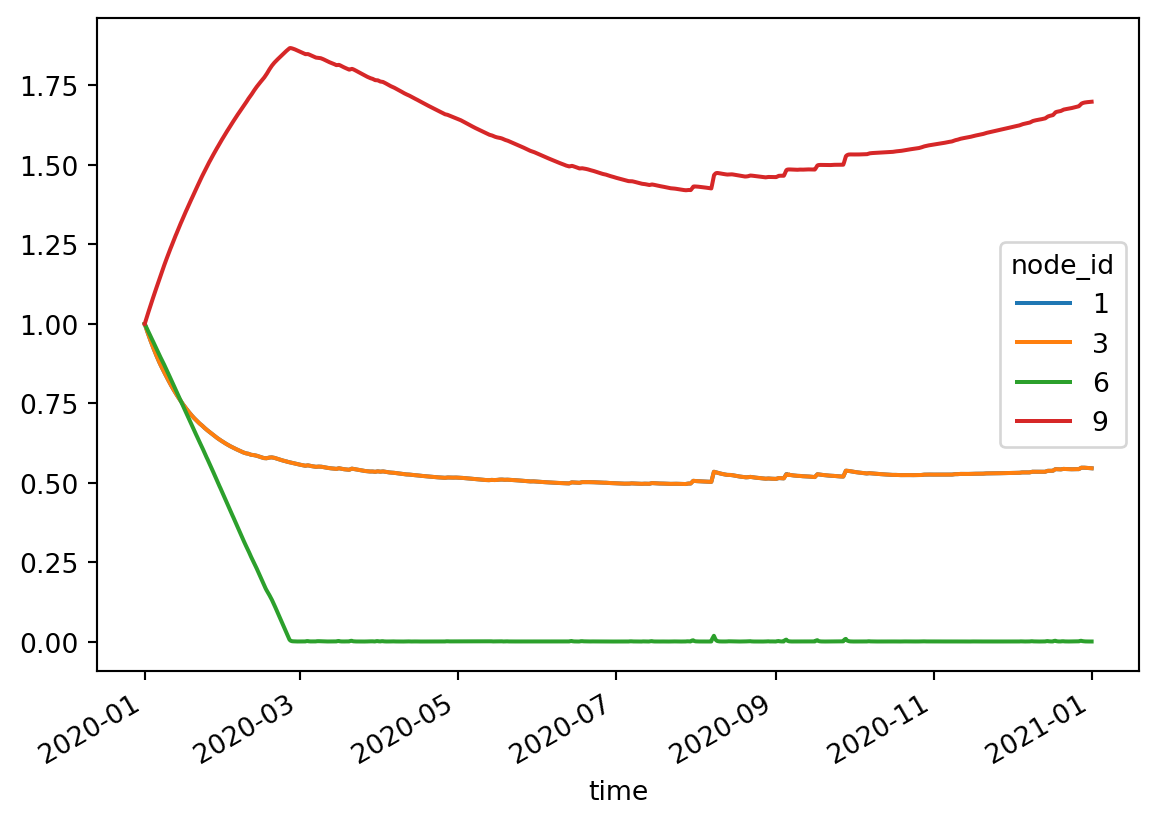
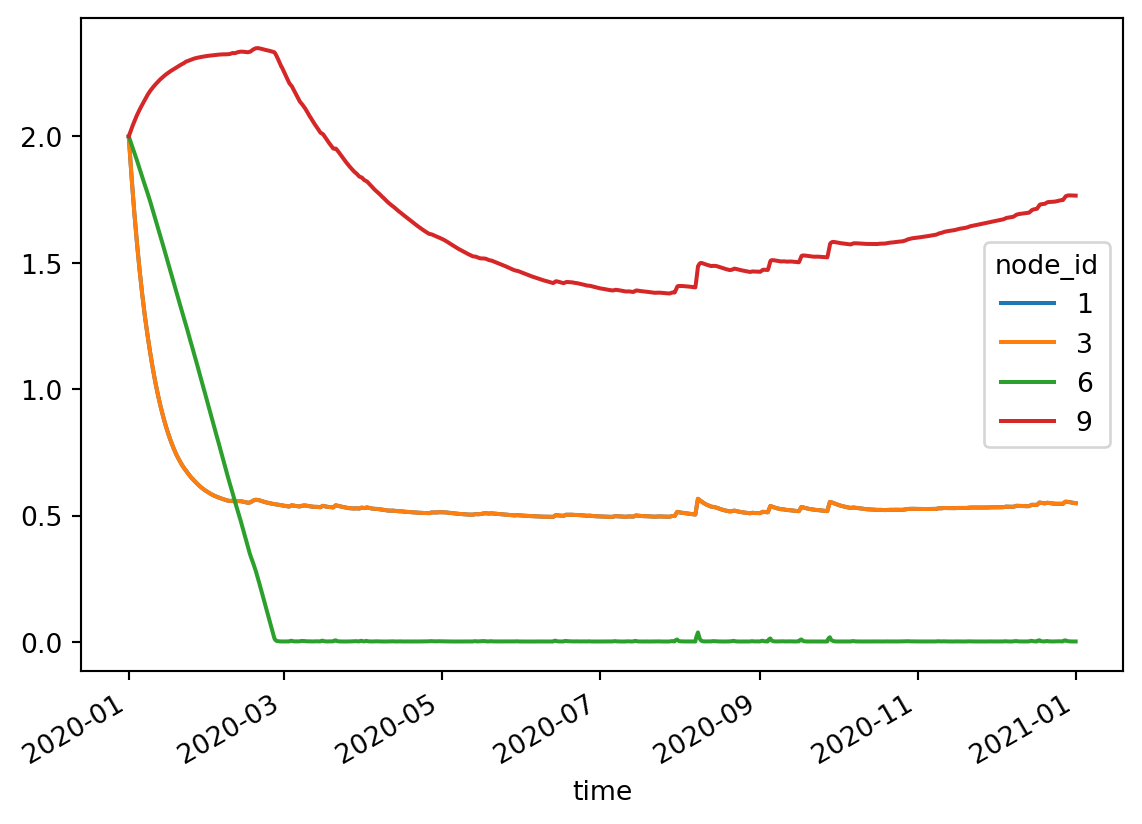
Built site for gh-pages

diff --git a/python/examples.html b/python/examples.html
@@ -315,7 +315,7 @@ pre > code.sourceCode > span > a:first-child::before { text-decoration: underlin
 <div class="sourceCode cell-code" id="cb4"><pre class="sourceCode python code-with-copy"><code class="sourceCode python"><span id="cb4-1"><a href="#cb4-1" aria-hidden="true" tabindex="-1"></a>profile <span class="op">=</span> pd.DataFrame(</span>
 <span id="cb4-2"><a href="#cb4-2" aria-hidden="true" tabindex="-1"></a>    data<span class="op">=</span>{</span>
 <span id="cb4-3"><a href="#cb4-3" aria-hidden="true" tabindex="-1"></a>        <span class="st">"node_id"</span>: [<span class="dv">1</span>, <span class="dv">1</span>, <span class="dv">3</span>, <span class="dv">3</span>, <span class="dv">6</span>, <span class="dv">6</span>, <span class="dv">9</span>, <span class="dv">9</span>],</span>
-<span id="cb4-4"><a href="#cb4-4" aria-hidden="true" tabindex="-1"></a>        <span class="st">"storage"</span>: [<span class="fl">0.0</span>, <span class="fl">1000.0</span>] <span class="op">*</span> <span class="dv">4</span>,</span>
+<span id="cb4-4"><a href="#cb4-4" aria-hidden="true" tabindex="-1"></a>        <span class="st">"storage"</span>: [<span class="fl">0.0</span>, <span class="fl">500.0</span>] <span class="op">*</span> <span class="dv">4</span>,</span>
 <span id="cb4-5"><a href="#cb4-5" aria-hidden="true" tabindex="-1"></a>        <span class="st">"area"</span>: [<span class="fl">0.0</span>, <span class="fl">1000.0</span>] <span class="op">*</span> <span class="dv">4</span>,</span>
 <span id="cb4-6"><a href="#cb4-6" aria-hidden="true" tabindex="-1"></a>        <span class="st">"level"</span>: [<span class="fl">0.0</span>, <span class="fl">1.0</span>] <span class="op">*</span> <span class="dv">4</span>,</span>
 <span id="cb4-7"><a href="#cb4-7" aria-hidden="true" tabindex="-1"></a>    }</span>
@@ -545,7 +545,7 @@ pre > code.sourceCode > span > a:first-child::before { text-decoration: underlin
 <pre><code>&lt;Axes: xlabel='time'&gt;</code></pre>
 </div>
 <div class="cell-output cell-output-display">
-<p><img src="examples_files/figure-html/cell-26-output-2.png" width="579" height="412"></p>
+<p><img src="examples_files/figure-html/cell-26-output-2.png" width="571" height="412"></p>
 </div>
 </div>
 <div class="cell" data-execution_count="26">
@@ -555,7 +555,7 @@ pre > code.sourceCode > span > a:first-child::before { text-decoration: underlin
 <span id="cb26-4"><a href="#cb26-4" aria-hidden="true" tabindex="-1"></a>ax <span class="op">=</span> df_flow.pivot_table(index<span class="op">=</span><span class="st">"time"</span>, columns<span class="op">=</span><span class="st">"edge"</span>, values<span class="op">=</span><span class="st">"flow_m3d"</span>).plot()</span>
 <span id="cb26-5"><a href="#cb26-5" aria-hidden="true" tabindex="-1"></a>ax.legend(bbox_to_anchor<span class="op">=</span>(<span class="fl">1.3</span>, <span class="dv">1</span>), title<span class="op">=</span><span class="st">"Edge"</span>)</span></code><button title="Copy to Clipboard" class="code-copy-button"><i class="bi"></i></button></pre></div>
 <div class="cell-output cell-output-display" data-execution_count="26">
-<pre><code>&lt;matplotlib.legend.Legend at 0x7fced2dcab90&gt;</code></pre>
+<pre><code>&lt;matplotlib.legend.Legend at 0x7f244639d1d0&gt;</code></pre>
 </div>
 <div class="cell-output cell-output-display">
 <p><img src="examples_files/figure-html/cell-27-output-2.png" width="744" height="412"></p>
@@ -726,21 +726,61 @@ pre > code.sourceCode > span > a:first-child::before { text-decoration: underlin
 <span id="cb39-2"><a href="#cb39-2" aria-hidden="true" tabindex="-1"></a>model.write(datadir <span class="op">/</span> <span class="st">"control"</span>)</span></code><button title="Copy to Clipboard" class="code-copy-button"><i class="bi"></i></button></pre></div>
 </div>
 <div class="cell" data-execution_count="38">
-<div class="sourceCode cell-code" id="cb40"><pre class="sourceCode python code-with-copy"><code class="sourceCode python"><span id="cb40-1"><a href="#cb40-1" aria-hidden="true" tabindex="-1"></a>df_basin <span class="op">=</span> pd.read_feather(datadir <span class="op">/</span> <span class="st">"control/output/basin.arrow"</span>)</span>
-<span id="cb40-2"><a href="#cb40-2" aria-hidden="true" tabindex="-1"></a>df_basin_wide <span class="op">=</span> df_basin.pivot_table(</span>
-<span id="cb40-3"><a href="#cb40-3" aria-hidden="true" tabindex="-1"></a>    index<span class="op">=</span><span class="st">"time"</span>, columns<span class="op">=</span><span class="st">"node_id"</span>, values<span class="op">=</span>[<span class="st">"storage"</span>, <span class="st">"level"</span>]</span>
-<span id="cb40-4"><a href="#cb40-4" aria-hidden="true" tabindex="-1"></a>)</span>
-<span id="cb40-5"><a href="#cb40-5" aria-hidden="true" tabindex="-1"></a></span>
-<span id="cb40-6"><a href="#cb40-6" aria-hidden="true" tabindex="-1"></a>df_basin_wide[<span class="st">"level"</span>].plot()</span>
+<div class="sourceCode cell-code" id="cb40"><pre class="sourceCode python code-with-copy"><code class="sourceCode python"><span id="cb40-1"><a href="#cb40-1" aria-hidden="true" tabindex="-1"></a><span class="im">from</span> matplotlib.dates <span class="im">import</span> date2num</span>
+<span id="cb40-2"><a href="#cb40-2" aria-hidden="true" tabindex="-1"></a></span>
+<span id="cb40-3"><a href="#cb40-3" aria-hidden="true" tabindex="-1"></a>df_basin <span class="op">=</span> pd.read_feather(datadir <span class="op">/</span> <span class="st">"control/output/basin.arrow"</span>)</span>
+<span id="cb40-4"><a href="#cb40-4" aria-hidden="true" tabindex="-1"></a>df_basin_wide <span class="op">=</span> df_basin.pivot_table(</span>
+<span id="cb40-5"><a href="#cb40-5" aria-hidden="true" tabindex="-1"></a>    index<span class="op">=</span><span class="st">"time"</span>, columns<span class="op">=</span><span class="st">"node_id"</span>, values<span class="op">=</span>[<span class="st">"storage"</span>, <span class="st">"level"</span>]</span>
+<span id="cb40-6"><a href="#cb40-6" aria-hidden="true" tabindex="-1"></a>)</span>
 <span id="cb40-7"><a href="#cb40-7" aria-hidden="true" tabindex="-1"></a></span>
-<span id="cb40-8"><a href="#cb40-8" aria-hidden="true" tabindex="-1"></a>ax.hlines(</span>
-<span id="cb40-9"><a href="#cb40-9" aria-hidden="true" tabindex="-1"></a>    [<span class="fl">0.4</span>, <span class="fl">0.8</span>], df_basin.time[<span class="dv">0</span>], df_basin.time.<span class="bu">max</span>(), color<span class="op">=</span>[<span class="st">"C1"</span>, <span class="st">"C0"</span>], lw<span class="op">=</span><span class="dv">1</span>, ls<span class="op">=</span><span class="st">":"</span></span>
-<span id="cb40-10"><a href="#cb40-10" aria-hidden="true" tabindex="-1"></a>)</span></code><button title="Copy to Clipboard" class="code-copy-button"><i class="bi"></i></button></pre></div>
-<div class="cell-output cell-output-display" data-execution_count="38">
-<pre><code>&lt;matplotlib.collections.LineCollection at 0x7fcec8fa4410&gt;</code></pre>
-</div>
+<span id="cb40-8"><a href="#cb40-8" aria-hidden="true" tabindex="-1"></a>ax <span class="op">=</span> df_basin_wide[<span class="st">"level"</span>].plot()</span>
+<span id="cb40-9"><a href="#cb40-9" aria-hidden="true" tabindex="-1"></a></span>
+<span id="cb40-10"><a href="#cb40-10" aria-hidden="true" tabindex="-1"></a>ax.hlines(</span>
+<span id="cb40-11"><a href="#cb40-11" aria-hidden="true" tabindex="-1"></a>    model.control.condition.greater_than,</span>
+<span id="cb40-12"><a href="#cb40-12" aria-hidden="true" tabindex="-1"></a>    df_basin.time[<span class="dv">0</span>],</span>
+<span id="cb40-13"><a href="#cb40-13" aria-hidden="true" tabindex="-1"></a>    df_basin.time.<span class="bu">max</span>(),</span>
+<span id="cb40-14"><a href="#cb40-14" aria-hidden="true" tabindex="-1"></a>    lw<span class="op">=</span><span class="dv">1</span>,</span>
+<span id="cb40-15"><a href="#cb40-15" aria-hidden="true" tabindex="-1"></a>    ls<span class="op">=</span><span class="st">":"</span>,</span>
+<span id="cb40-16"><a href="#cb40-16" aria-hidden="true" tabindex="-1"></a>    color<span class="op">=</span>[<span class="st">"C0"</span>, <span class="st">"C1"</span>],</span>
+<span id="cb40-17"><a href="#cb40-17" aria-hidden="true" tabindex="-1"></a>)</span>
+<span id="cb40-18"><a href="#cb40-18" aria-hidden="true" tabindex="-1"></a></span>
+<span id="cb40-19"><a href="#cb40-19" aria-hidden="true" tabindex="-1"></a>df_control <span class="op">=</span> pd.read_feather(datadir <span class="op">/</span> <span class="st">"control/output/control.arrow"</span>)</span>
+<span id="cb40-20"><a href="#cb40-20" aria-hidden="true" tabindex="-1"></a></span>
+<span id="cb40-21"><a href="#cb40-21" aria-hidden="true" tabindex="-1"></a>ax.vlines(df_control.time, <span class="dv">0</span>, <span class="dv">1</span>, lw<span class="op">=</span><span class="dv">1</span>, ls<span class="op">=</span><span class="st">":"</span>, color<span class="op">=</span><span class="st">"k"</span>)</span>
+<span id="cb40-22"><a href="#cb40-22" aria-hidden="true" tabindex="-1"></a>ax.set_xticks(</span>
+<span id="cb40-23"><a href="#cb40-23" aria-hidden="true" tabindex="-1"></a>    <span class="bu">list</span>(ax.get_xticks()) <span class="op">+</span> date2num(df_control.time).tolist(),</span>
+<span id="cb40-24"><a href="#cb40-24" aria-hidden="true" tabindex="-1"></a>    <span class="bu">list</span>(ax.get_xticklabels()) <span class="op">+</span> df_control.control_state.tolist(),</span>
+<span id="cb40-25"><a href="#cb40-25" aria-hidden="true" tabindex="-1"></a>    rotation<span class="op">=</span><span class="dv">50</span>,</span>
+<span id="cb40-26"><a href="#cb40-26" aria-hidden="true" tabindex="-1"></a>)<span class="op">;</span></span></code><button title="Copy to Clipboard" class="code-copy-button"><i class="bi"></i></button></pre></div>
 <div class="cell-output cell-output-display">
-<p><img src="examples_files/figure-html/cell-39-output-2.png" width="571" height="412"></p>
+<p><img src="examples_files/figure-html/cell-39-output-1.png" width="571" height="424"></p>
+</div>
+</div>
+<p>Let’s print an overview of what happened with control:</p>
+<div class="cell" data-execution_count="39">
+<div class="sourceCode cell-code" id="cb41"><pre class="sourceCode python code-with-copy"><code class="sourceCode python"><span id="cb41-1"><a href="#cb41-1" aria-hidden="true" tabindex="-1"></a>model.print_control_record(datadir <span class="op">/</span> <span class="st">"control/output/control.arrow"</span>)</span></code><button title="Copy to Clipboard" class="code-copy-button"><i class="bi"></i></button></pre></div>
+<div class="cell-output cell-output-stdout">
+<pre><code>0. At 2020-01-01 00:00:00 the control node with ID 5 reached truth state TF:
+    For node ID 1 (Basin): level &gt; 0.8
+    For node ID 3 (Basin): level &lt; 0.4
+
+   This yielded control state "off":
+    For node ID 4 (Pump): flow_rate = 0.0
+
+1. At 2020-01-30 12:07:44.413000 the control node with ID 5 reached truth state FF:
+    For node ID 1 (Basin): level &lt; 0.8
+    For node ID 3 (Basin): level &lt; 0.4
+
+   This yielded control state "on":
+    For node ID 4 (Pump): flow_rate = 1e-05
+
+2. At 2020-02-16 04:47:34.025000 the control node with ID 5 reached truth state FT:
+    For node ID 1 (Basin): level &lt; 0.8
+    For node ID 3 (Basin): level &gt; 0.4
+
+   This yielded control state "off":
+    For node ID 4 (Pump): flow_rate = 0.0
+</code></pre>
 </div>
 </div>
 

diff --git a/core/usage.html b/core/usage.html
@@ -270,25 +270,26 @@ pre > code.sourceCode > span > a:first-child::before { text-decoration: underlin
 <span id="cb2-12"><a href="#cb2-12" aria-hidden="true" tabindex="-1"></a><span class="co"># These output files are always written</span></span>
 <span id="cb2-13"><a href="#cb2-13" aria-hidden="true" tabindex="-1"></a><span class="dt">flow</span> <span class="op">=</span> <span class="st">"output/flow.arrow"</span>    <span class="co"># optional, default "output/flow.arrow"</span></span>
 <span id="cb2-14"><a href="#cb2-14" aria-hidden="true" tabindex="-1"></a><span class="dt">basin</span> <span class="op">=</span> <span class="st">"output/basin.arrow"</span>  <span class="co"># optional, default "output/basin.arrow"</span></span>
-<span id="cb2-15"><a href="#cb2-15" aria-hidden="true" tabindex="-1"></a></span>
-<span id="cb2-16"><a href="#cb2-16" aria-hidden="true" tabindex="-1"></a><span class="co"># Specific tables can also go into Arrow files rather than the GeoPackage.</span></span>
-<span id="cb2-17"><a href="#cb2-17" aria-hidden="true" tabindex="-1"></a><span class="co"># For large tables this can benefit from better compressed file sizes.</span></span>
-<span id="cb2-18"><a href="#cb2-18" aria-hidden="true" tabindex="-1"></a><span class="co"># This is optional, tables are retrieved from the GeoPackage if not specified in the TOML.</span></span>
-<span id="cb2-19"><a href="#cb2-19" aria-hidden="true" tabindex="-1"></a><span class="kw">[</span><span class="dt">Basin</span><span class="kw">]</span></span>
-<span id="cb2-20"><a href="#cb2-20" aria-hidden="true" tabindex="-1"></a><span class="dt">forcing</span> <span class="op">=</span> <span class="st">"forcing.arrow"</span></span>
-<span id="cb2-21"><a href="#cb2-21" aria-hidden="true" tabindex="-1"></a></span>
+<span id="cb2-15"><a href="#cb2-15" aria-hidden="true" tabindex="-1"></a><span class="dt">control</span> <span class="op">=</span> <span class="st">"output/control.arrow"</span> <span class="co"># optional, default "output/control.arrow" </span></span>
+<span id="cb2-16"><a href="#cb2-16" aria-hidden="true" tabindex="-1"></a></span>
+<span id="cb2-17"><a href="#cb2-17" aria-hidden="true" tabindex="-1"></a><span class="co"># Specific tables can also go into Arrow files rather than the GeoPackage.</span></span>
+<span id="cb2-18"><a href="#cb2-18" aria-hidden="true" tabindex="-1"></a><span class="co"># For large tables this can benefit from better compressed file sizes.</span></span>
+<span id="cb2-19"><a href="#cb2-19" aria-hidden="true" tabindex="-1"></a><span class="co"># This is optional, tables are retrieved from the GeoPackage if not specified in the TOML.</span></span>
+<span id="cb2-20"><a href="#cb2-20" aria-hidden="true" tabindex="-1"></a><span class="kw">[</span><span class="dt">Basin</span><span class="kw">]</span></span>
+<span id="cb2-21"><a href="#cb2-21" aria-hidden="true" tabindex="-1"></a><span class="dt">forcing</span> <span class="op">=</span> <span class="st">"forcing.arrow"</span></span>
 <span id="cb2-22"><a href="#cb2-22" aria-hidden="true" tabindex="-1"></a></span>
-<span id="cb2-23"><a href="#cb2-23" aria-hidden="true" tabindex="-1"></a><span class="kw">[</span><span class="dt">solver</span><span class="kw">]</span></span>
-<span id="cb2-24"><a href="#cb2-24" aria-hidden="true" tabindex="-1"></a><span class="dt">algorithm</span> <span class="op">=</span> <span class="st">"QNDF"</span>  <span class="co"># optional, default "QNDF"</span></span>
-<span id="cb2-25"><a href="#cb2-25" aria-hidden="true" tabindex="-1"></a><span class="co"># autodiff can only be set to true for implicit solvers, but is not yet supported</span></span>
-<span id="cb2-26"><a href="#cb2-26" aria-hidden="true" tabindex="-1"></a><span class="dt">autodiff</span> <span class="op">=</span> <span class="cn">false</span>  <span class="co"># optional, default false</span></span>
-<span id="cb2-27"><a href="#cb2-27" aria-hidden="true" tabindex="-1"></a><span class="co"># saveat can be a number, which is the saving interval in seconds, or</span></span>
-<span id="cb2-28"><a href="#cb2-28" aria-hidden="true" tabindex="-1"></a><span class="co"># it can be a list of numbers, which are the times in seconds since start that are saved</span></span>
-<span id="cb2-29"><a href="#cb2-29" aria-hidden="true" tabindex="-1"></a><span class="dt">saveat</span> <span class="op">=</span> <span class="op">[]</span>  <span class="co"># optional, default [], which will save every timestep</span></span>
-<span id="cb2-30"><a href="#cb2-30" aria-hidden="true" tabindex="-1"></a><span class="dt">dt</span> <span class="op">=</span> <span class="fl">0.0</span>  <span class="co"># optional, default 0.0</span></span>
-<span id="cb2-31"><a href="#cb2-31" aria-hidden="true" tabindex="-1"></a><span class="dt">abstol</span> <span class="op">=</span> <span class="fl">1e-6</span>  <span class="co"># optional, default 1e-6</span></span>
-<span id="cb2-32"><a href="#cb2-32" aria-hidden="true" tabindex="-1"></a><span class="dt">reltol</span> <span class="op">=</span> <span class="fl">1e-3</span>  <span class="co"># optional, default 1e-3</span></span>
-<span id="cb2-33"><a href="#cb2-33" aria-hidden="true" tabindex="-1"></a><span class="dt">maxiters</span> <span class="op">=</span> <span class="fl">1e9</span>  <span class="co"># optional, default 1e9</span></span></code><button title="Copy to Clipboard" class="code-copy-button"><i class="bi"></i></button></pre></div>
+<span id="cb2-23"><a href="#cb2-23" aria-hidden="true" tabindex="-1"></a></span>
+<span id="cb2-24"><a href="#cb2-24" aria-hidden="true" tabindex="-1"></a><span class="kw">[</span><span class="dt">solver</span><span class="kw">]</span></span>
+<span id="cb2-25"><a href="#cb2-25" aria-hidden="true" tabindex="-1"></a><span class="dt">algorithm</span> <span class="op">=</span> <span class="st">"QNDF"</span>  <span class="co"># optional, default "QNDF"</span></span>
+<span id="cb2-26"><a href="#cb2-26" aria-hidden="true" tabindex="-1"></a><span class="co"># autodiff can only be set to true for implicit solvers, but is not yet supported</span></span>
+<span id="cb2-27"><a href="#cb2-27" aria-hidden="true" tabindex="-1"></a><span class="dt">autodiff</span> <span class="op">=</span> <span class="cn">false</span>  <span class="co"># optional, default false</span></span>
+<span id="cb2-28"><a href="#cb2-28" aria-hidden="true" tabindex="-1"></a><span class="co"># saveat can be a number, which is the saving interval in seconds, or</span></span>
+<span id="cb2-29"><a href="#cb2-29" aria-hidden="true" tabindex="-1"></a><span class="co"># it can be a list of numbers, which are the times in seconds since start that are saved</span></span>
+<span id="cb2-30"><a href="#cb2-30" aria-hidden="true" tabindex="-1"></a><span class="dt">saveat</span> <span class="op">=</span> <span class="op">[]</span>  <span class="co"># optional, default [], which will save every timestep</span></span>
+<span id="cb2-31"><a href="#cb2-31" aria-hidden="true" tabindex="-1"></a><span class="dt">dt</span> <span class="op">=</span> <span class="fl">0.0</span>  <span class="co"># optional, default 0.0</span></span>
+<span id="cb2-32"><a href="#cb2-32" aria-hidden="true" tabindex="-1"></a><span class="dt">abstol</span> <span class="op">=</span> <span class="fl">1e-6</span>  <span class="co"># optional, default 1e-6</span></span>
+<span id="cb2-33"><a href="#cb2-33" aria-hidden="true" tabindex="-1"></a><span class="dt">reltol</span> <span class="op">=</span> <span class="fl">1e-3</span>  <span class="co"># optional, default 1e-3</span></span>
+<span id="cb2-34"><a href="#cb2-34" aria-hidden="true" tabindex="-1"></a><span class="dt">maxiters</span> <span class="op">=</span> <span class="fl">1e9</span>  <span class="co"># optional, default 1e9</span></span></code><button title="Copy to Clipboard" class="code-copy-button"><i class="bi"></i></button></pre></div>
 <p>For more information on the solver options, see the <a href="https://docs.sciml.ai/DiffEqDocs/latest/basics/common_solver_opts/#solver_options">DifferentialEquations.jl docs</a>. Information on the solver algorithms can be found on the <a href="https://docs.sciml.ai/DiffEqDocs/stable/solvers/ode_solve/">ODE solvers page</a>.</p>
 </section>
 <section id="geopackage-and-arrow-tables" class="level3" data-number="1.2">
@@ -561,22 +562,16 @@ pre > code.sourceCode > span > a:first-child::before { text-decoration: underlin
 <td>sorted</td>
 </tr>
 <tr class="even">
-<td>storage</td>
-<td>Float64</td>
-<td><span class="math inline">\(m^3\)</span></td>
-<td>non-negative, per node_id: start at 0 and increasing</td>
-</tr>
-<tr class="odd">
 <td>area</td>
 <td>Float64</td>
 <td><span class="math inline">\(m^2\)</span></td>
-<td>non-negative</td>
+<td>non-negative, per node_id: start at 0 and increasing</td>
 </tr>
-<tr class="even">
+<tr class="odd">
 <td>level</td>
 <td>Float64</td>
 <td><span class="math inline">\(m\)</span></td>
-<td>-</td>
+<td>per node_id: increasing</td>
 </tr>
 </tbody>
 </table>
@@ -585,7 +580,6 @@ pre > code.sourceCode > span > a:first-child::before { text-decoration: underlin
 <thead>
 <tr class="header">
 <th>node_id</th>
-<th>storage</th>
 <th>area</th>
 <th>level</th>
 </tr>
@@ -594,35 +588,26 @@ pre > code.sourceCode > span > a:first-child::before { text-decoration: underlin
 <tr class="odd">
 <td>2</td>
 <td>0.0</td>
-<td>1.36404e5</td>
-<td>-0.105</td>
+<td>6.0</td>
 </tr>
 <tr class="even">
 <td>2</td>
-<td>24726.2</td>
-<td>1.36404e5</td>
-<td>0.095</td>
+<td>1000.0</td>
+<td>7.0</td>
 </tr>
 <tr class="odd">
 <td>2</td>
-<td>49452.5</td>
-<td>1.36404e5</td>
-<td>0.295</td>
+<td>1000.0</td>
+<td>9.0</td>
 </tr>
 <tr class="even">
-<td>2</td>
-<td>2.49735e6</td>
-<td>1.36404e5</td>
-<td>20.095</td>
-</tr>
-<tr class="odd">
 <td>3</td>
 <td>0.0</td>
-<td>50663.3</td>
-<td>2.129</td>
+<td>2.2</td>
 </tr>
 </tbody>
 </table>
+<p>We use the symbol <span class="math inline">\(A\)</span> for area, <span class="math inline">\(h\)</span> for level and <span class="math inline">\(S\)</span> for storage. The profile provides a function <span class="math inline">\(A(h)\)</span> for each basin. Internally this get converted to two functions, <span class="math inline">\(A(S)\)</span> and <span class="math inline">\(h(S)\)</span>, by integrating over the function, setting the storage to zero for the bottom of the profile.</p>
 </section>
 <section id="fractionalflow" class="level3" data-number="1.9">
 <h3 data-number="1.9" class="anchored" data-anchor-id="fractionalflow"><span class="header-section-number">1.9</span> FractionalFlow</h3>

diff --git a/python/reference/Model.html b/python/reference/Model.html
@@ -137,12 +137,13 @@ ul.task-list li input[type="checkbox"] {
   <li><a href="#ribasim.Model.get_node_types" id="toc-ribasim.Model.get_node_types" class="nav-link" data-scroll-target="#ribasim.Model.get_node_types"><span class="header-section-number">1.2.3</span> get_node_types</a></li>
   <li><a href="#ribasim.Model.plot" id="toc-ribasim.Model.plot" class="nav-link" data-scroll-target="#ribasim.Model.plot"><span class="header-section-number">1.2.4</span> plot</a></li>
   <li><a href="#ribasim.Model.plot_control_listen" id="toc-ribasim.Model.plot_control_listen" class="nav-link" data-scroll-target="#ribasim.Model.plot_control_listen"><span class="header-section-number">1.2.5</span> plot_control_listen</a></li>
-  <li><a href="#ribasim.Model.sort" id="toc-ribasim.Model.sort" class="nav-link" data-scroll-target="#ribasim.Model.sort"><span class="header-section-number">1.2.6</span> sort</a></li>
-  <li><a href="#ribasim.Model.validate_model" id="toc-ribasim.Model.validate_model" class="nav-link" data-scroll-target="#ribasim.Model.validate_model"><span class="header-section-number">1.2.7</span> validate_model</a></li>
-  <li><a href="#ribasim.Model.validate_model_node_IDs" id="toc-ribasim.Model.validate_model_node_IDs" class="nav-link" data-scroll-target="#ribasim.Model.validate_model_node_IDs"><span class="header-section-number">1.2.8</span> validate_model_node_IDs</a></li>
-  <li><a href="#ribasim.Model.validate_model_node_field_IDs" id="toc-ribasim.Model.validate_model_node_field_IDs" class="nav-link" data-scroll-target="#ribasim.Model.validate_model_node_field_IDs"><span class="header-section-number">1.2.9</span> validate_model_node_field_IDs</a></li>
-  <li><a href="#ribasim.Model.validate_model_node_types" id="toc-ribasim.Model.validate_model_node_types" class="nav-link" data-scroll-target="#ribasim.Model.validate_model_node_types"><span class="header-section-number">1.2.10</span> validate_model_node_types</a></li>
-  <li><a href="#ribasim.Model.write" id="toc-ribasim.Model.write" class="nav-link" data-scroll-target="#ribasim.Model.write"><span class="header-section-number">1.2.11</span> write</a></li>
+  <li><a href="#ribasim.Model.print_control_record" id="toc-ribasim.Model.print_control_record" class="nav-link" data-scroll-target="#ribasim.Model.print_control_record"><span class="header-section-number">1.2.6</span> print_control_record</a></li>
+  <li><a href="#ribasim.Model.sort" id="toc-ribasim.Model.sort" class="nav-link" data-scroll-target="#ribasim.Model.sort"><span class="header-section-number">1.2.7</span> sort</a></li>
+  <li><a href="#ribasim.Model.validate_model" id="toc-ribasim.Model.validate_model" class="nav-link" data-scroll-target="#ribasim.Model.validate_model"><span class="header-section-number">1.2.8</span> validate_model</a></li>
+  <li><a href="#ribasim.Model.validate_model_node_IDs" id="toc-ribasim.Model.validate_model_node_IDs" class="nav-link" data-scroll-target="#ribasim.Model.validate_model_node_IDs"><span class="header-section-number">1.2.9</span> validate_model_node_IDs</a></li>
+  <li><a href="#ribasim.Model.validate_model_node_field_IDs" id="toc-ribasim.Model.validate_model_node_field_IDs" class="nav-link" data-scroll-target="#ribasim.Model.validate_model_node_field_IDs"><span class="header-section-number">1.2.10</span> validate_model_node_field_IDs</a></li>
+  <li><a href="#ribasim.Model.validate_model_node_types" id="toc-ribasim.Model.validate_model_node_types" class="nav-link" data-scroll-target="#ribasim.Model.validate_model_node_types"><span class="header-section-number">1.2.11</span> validate_model_node_types</a></li>
+  <li><a href="#ribasim.Model.write" id="toc-ribasim.Model.write" class="nav-link" data-scroll-target="#ribasim.Model.write"><span class="header-section-number">1.2.12</span> write</a></li>
   </ul></li>
   </ul></li>
   </ul>
@@ -306,26 +307,30 @@ ul.task-list li input[type="checkbox"] {
 <td></td>
 </tr>
 <tr class="even">
+<td><a href="#ribasim.Model.print_control_record">print_control_record</a></td>
+<td></td>
+</tr>
+<tr class="odd">
 <td><a href="#ribasim.Model.sort">sort</a></td>
 <td>Sort all input tables as required.</td>
 </tr>
-<tr class="odd">
+<tr class="even">
 <td><a href="#ribasim.Model.validate_model">validate_model</a></td>
 <td>Checks:</td>
 </tr>
-<tr class="even">
+<tr class="odd">
 <td><a href="#ribasim.Model.validate_model_node_IDs">validate_model_node_IDs</a></td>
 <td>Checks whether the node IDs in the node field correspond to the node IDs on the node type fields</td>
 </tr>
-<tr class="odd">
+<tr class="even">
 <td><a href="#ribasim.Model.validate_model_node_field_IDs">validate_model_node_field_IDs</a></td>
 <td>Checks whether the node IDs of the node_type fields are valid</td>
 </tr>
-<tr class="even">
+<tr class="odd">
 <td><a href="#ribasim.Model.validate_model_node_types">validate_model_node_types</a></td>
 <td>Checks whether all node types in the node field are valid</td>
 </tr>
-<tr class="odd">
+<tr class="even">
 <td><a href="#ribasim.Model.write">write</a></td>
 <td>Write the contents of the model to a GeoPackage and a TOML</td>
 </tr>
@@ -436,38 +441,42 @@ ul.task-list li input[type="checkbox"] {
 <h3 data-number="1.2.5" class="anchored" data-anchor-id="ribasim.Model.plot_control_listen"><span class="header-section-number">1.2.5</span> plot_control_listen</h3>
 <p><code>Model.plot_control_listen(self, ax)</code></p>
 </section>
-<section id="ribasim.Model.sort" class="level3" data-number="1.2.6">
-<h3 data-number="1.2.6" class="anchored" data-anchor-id="ribasim.Model.sort"><span class="header-section-number">1.2.6</span> sort</h3>
+<section id="ribasim.Model.print_control_record" class="level3" data-number="1.2.6">
+<h3 data-number="1.2.6" class="anchored" data-anchor-id="ribasim.Model.print_control_record"><span class="header-section-number">1.2.6</span> print_control_record</h3>
+<p><code>Model.print_control_record(self, path)</code></p>
+</section>
+<section id="ribasim.Model.sort" class="level3" data-number="1.2.7">
+<h3 data-number="1.2.7" class="anchored" data-anchor-id="ribasim.Model.sort"><span class="header-section-number">1.2.7</span> sort</h3>
 <p><code>Model.sort(self)</code></p>
 <p>Sort all input tables as required. Tables are sorted by “node_id”, unless otherwise specified. Sorting is done automatically before writing the table.</p>
 </section>
-<section id="ribasim.Model.validate_model" class="level3" data-number="1.2.7">
-<h3 data-number="1.2.7" class="anchored" data-anchor-id="ribasim.Model.validate_model"><span class="header-section-number">1.2.7</span> validate_model</h3>
+<section id="ribasim.Model.validate_model" class="level3" data-number="1.2.8">
+<h3 data-number="1.2.8" class="anchored" data-anchor-id="ribasim.Model.validate_model"><span class="header-section-number">1.2.8</span> validate_model</h3>
 <p><code>Model.validate_model(self)</code></p>
 <p>Checks: - Whether all node types in the node field are valid - Whether the node IDs of the node_type fields are valid - Whether the node IDs in the node field correspond to the node IDs on the node type fields</p>
 </section>
-<section id="ribasim.Model.validate_model_node_IDs" class="level3" data-number="1.2.8">
-<h3 data-number="1.2.8" class="anchored" data-anchor-id="ribasim.Model.validate_model_node_IDs"><span class="header-section-number">1.2.8</span> validate_model_node_IDs</h3>
+<section id="ribasim.Model.validate_model_node_IDs" class="level3" data-number="1.2.9">
+<h3 data-number="1.2.9" class="anchored" data-anchor-id="ribasim.Model.validate_model_node_IDs"><span class="header-section-number">1.2.9</span> validate_model_node_IDs</h3>
 <p><code>Model.validate_model_node_IDs(self)</code></p>
 <p>Checks whether the node IDs in the node field correspond to the node IDs on the node type fields</p>
 </section>
-<section id="ribasim.Model.validate_model_node_field_IDs" class="level3" data-number="1.2.9">
-<h3 data-number="1.2.9" class="anchored" data-anchor-id="ribasim.Model.validate_model_node_field_IDs"><span class="header-section-number">1.2.9</span> validate_model_node_field_IDs</h3>
+<section id="ribasim.Model.validate_model_node_field_IDs" class="level3" data-number="1.2.10">
+<h3 data-number="1.2.10" class="anchored" data-anchor-id="ribasim.Model.validate_model_node_field_IDs"><span class="header-section-number">1.2.10</span> validate_model_node_field_IDs</h3>
 <p><code>Model.validate_model_node_field_IDs(self)</code></p>
 <p>Checks whether the node IDs of the node_type fields are valid</p>
 </section>
-<section id="ribasim.Model.validate_model_node_types" class="level3" data-number="1.2.10">
-<h3 data-number="1.2.10" class="anchored" data-anchor-id="ribasim.Model.validate_model_node_types"><span class="header-section-number">1.2.10</span> validate_model_node_types</h3>
+<section id="ribasim.Model.validate_model_node_types" class="level3" data-number="1.2.11">
+<h3 data-number="1.2.11" class="anchored" data-anchor-id="ribasim.Model.validate_model_node_types"><span class="header-section-number">1.2.11</span> validate_model_node_types</h3>
 <p><code>Model.validate_model_node_types(self)</code></p>
 <p>Checks whether all node types in the node field are valid</p>
 </section>
-<section id="ribasim.Model.write" class="level3" data-number="1.2.11">
-<h3 data-number="1.2.11" class="anchored" data-anchor-id="ribasim.Model.write"><span class="header-section-number">1.2.11</span> write</h3>
+<section id="ribasim.Model.write" class="level3" data-number="1.2.12">
+<h3 data-number="1.2.12" class="anchored" data-anchor-id="ribasim.Model.write"><span class="header-section-number">1.2.12</span> write</h3>
 <p><code>Model.write(self, directory)</code></p>
 <p>Write the contents of the model to a GeoPackage and a TOML configuration file.</p>
 <p>If <code>directory</code> does not exist, it is created before writing. The GeoPackage and TOML file will be called <code>{modelname}.gpkg</code> and <code>{modelname}.toml</code> respectively.</p>
-<section id="parameters-3" class="level4" data-number="1.2.11.1">
-<h4 data-number="1.2.11.1" class="anchored" data-anchor-id="parameters-3"><span class="header-section-number">1.2.11.1</span> Parameters</h4>
+<section id="parameters-3" class="level4" data-number="1.2.12.1">
+<h4 data-number="1.2.12.1" class="anchored" data-anchor-id="parameters-3"><span class="header-section-number">1.2.12.1</span> Parameters</h4>
 <table class="table">
 <thead>
 <tr class="header">

diff --git a/contribute/addnode.html b/contribute/addnode.html
@@ -387,7 +387,7 @@ pre > code.sourceCode > span > a:first-child::before { text-decoration: underlin
 <p>There are several parts of the documentation which should be updated with the new node type:</p>
 <ul>
 <li><code>docs/core/equations</code> should contain a short explanation and if possible an analytical expression for the behaviour of the new node;</li>
-<li><code>docs/core/usage.qmd</code> should conntain a short explanation of the node and the possible schemas associated with it;</li>
+<li><code>docs/core/usage.qmd</code> should contain a short explanation of the node and the possible schemas associated with it;</li>
 <li>The example models constructed in <code>docs/python/examples.ipynb</code> should be extended with the new node type or a new example model with the new node type should be made.</li>
 </ul>
 </section>
